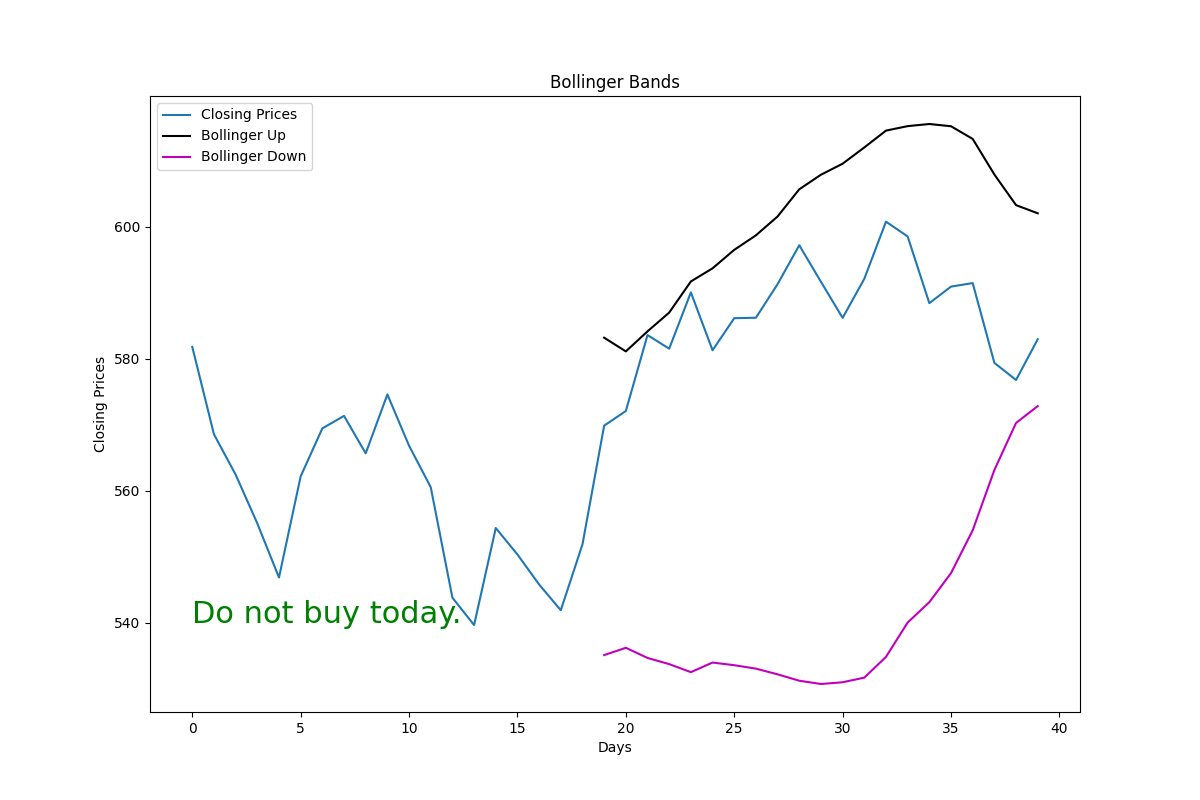
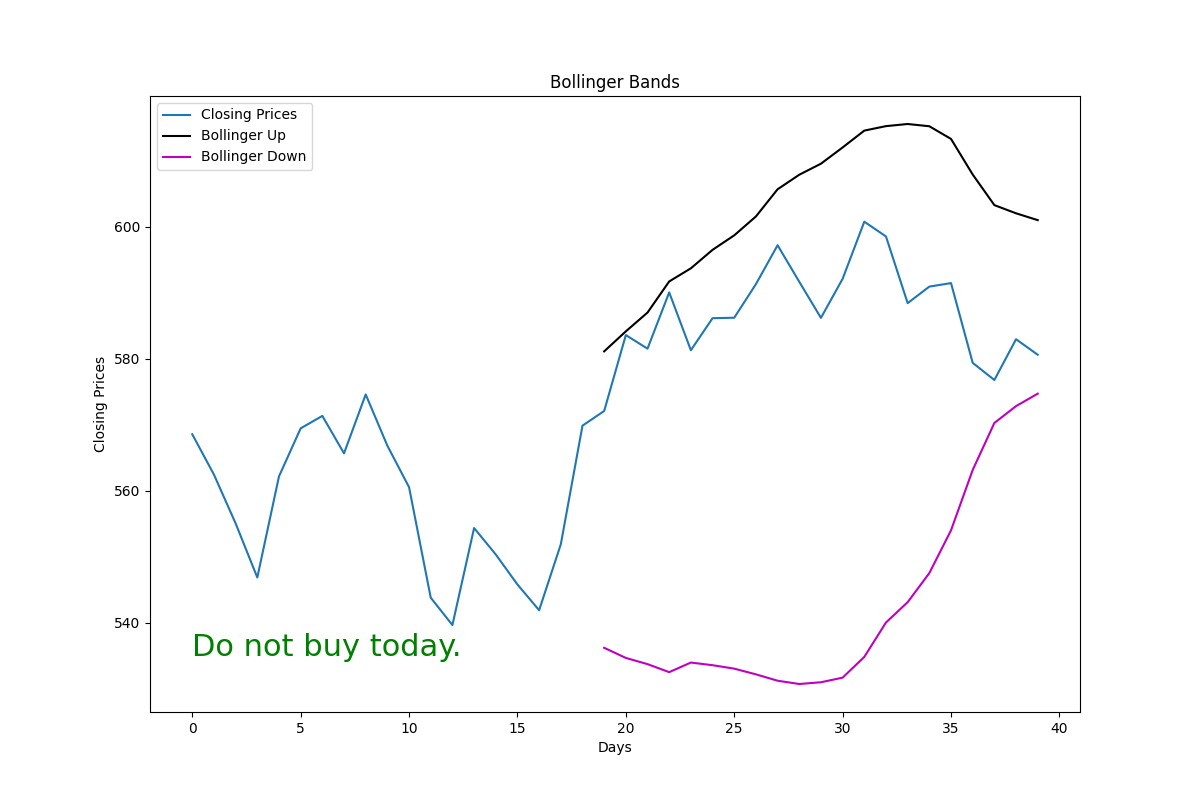
Changed y axis point of Bollinger Bands chart's text to 535

diff --git a/gsef_bollinger_bands.py b/gsef_bollinger_bands.py
@@ -60,7 +60,7 @@ plt.plot(bollinger_down, label='Bollinger Down', c='m')
 plt.legend()
 
 #adding text inside the plot
-plt.text(0, 540, to_do, fontsize = 22, c='g')
+plt.text(0, 535, to_do, fontsize = 22, c='g')
 
 bollinger_bands_chart= 'gsef_folder/bollinger_bands.png'
 
